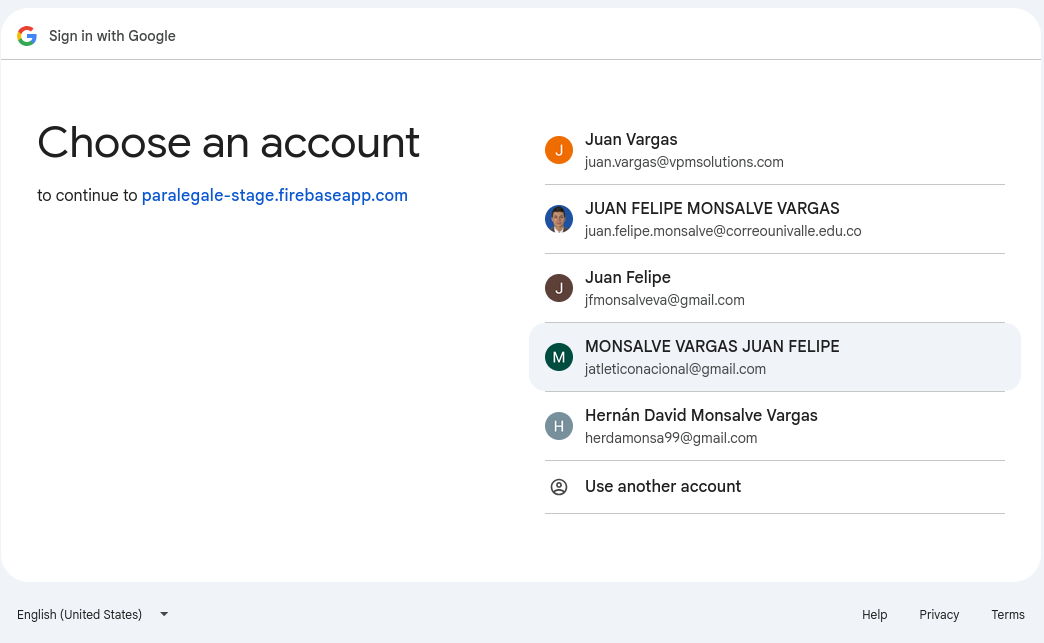
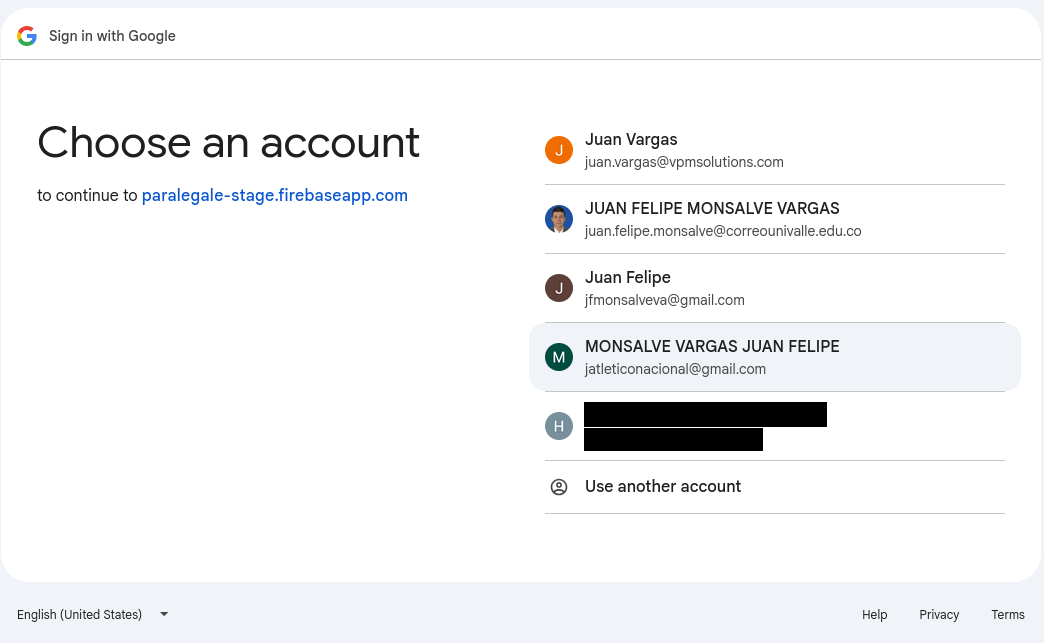
fix(figuras): redactar datos personales en las capturas de pantalla
Corrección 5 del evaluador: las capturas provenían de un entorno con
datos reales de producción y exponían datos personales de usuarios.

Se auditaron las 34 figuras del informe y se redactó con rectángulos
opacos en 10 de ellas:
- Nombres de partes de procesos judiciales (fig25, fig26, fig35).
- Correo y nombre de un tercero en el selector de cuentas (fig17).
- Nombres, alias y avatares con rostro del equipo (fig9-webdesk,
  fig10-plane, fig12-telegram).
- Avatar con rostro en la vista de GitHub Actions (fig39).
- user_uid, payment_id y process_id en el payload del BFF (fig35).
- Token oobCode y apiKey de Firebase en la URL de verificación (fig19).
- Identificador interno del seguimiento activo (fig20).

Se conservan deliberadamente los números de radicado, por ser de
registro público, los nombres de juzgados, entidades y personas
jurídicas, y los identificadores de correlación, que son el objeto
documentado por las figuras de observabilidad.

Changed region(s): [[0.5517, 0.6221, 0.7969, 0.7154]]

diff --git a/correcciones/correcciones.md b/correcciones/correcciones.md
@@ -12,7 +12,7 @@ las siguientes son las correcciones que hizo el evaluador del trabajo de grado l
 4.
 ![alt text](image-3.png)
 
-5.
+5. ✅ RESUELTO (parcial) — se auditaron las 34 figuras usadas y se aplicó redacción con rectángulos negros en 10 de ellas: nombres de partes de procesos judiciales, correos de terceros, alias y nombres del equipo, avatares con rostro real, `user_uid`/`payment_id`, y un token `oobCode` junto con la `apiKey` de Firebase. Se conservaron radicados (registro público), entidades, juzgados y los `correlation-id`. PENDIENTE de decisión del autor: tapar el ID de cuenta AWS `062141952574` y el principal IAM en Fig 6, 27 y 28; tapar los correos personales del autor en Fig 10 y 13; y limpiar el historial de git, donde los originales sin redactar siguen presentes.
 ![alt text](image-4.png)
 
 6.
